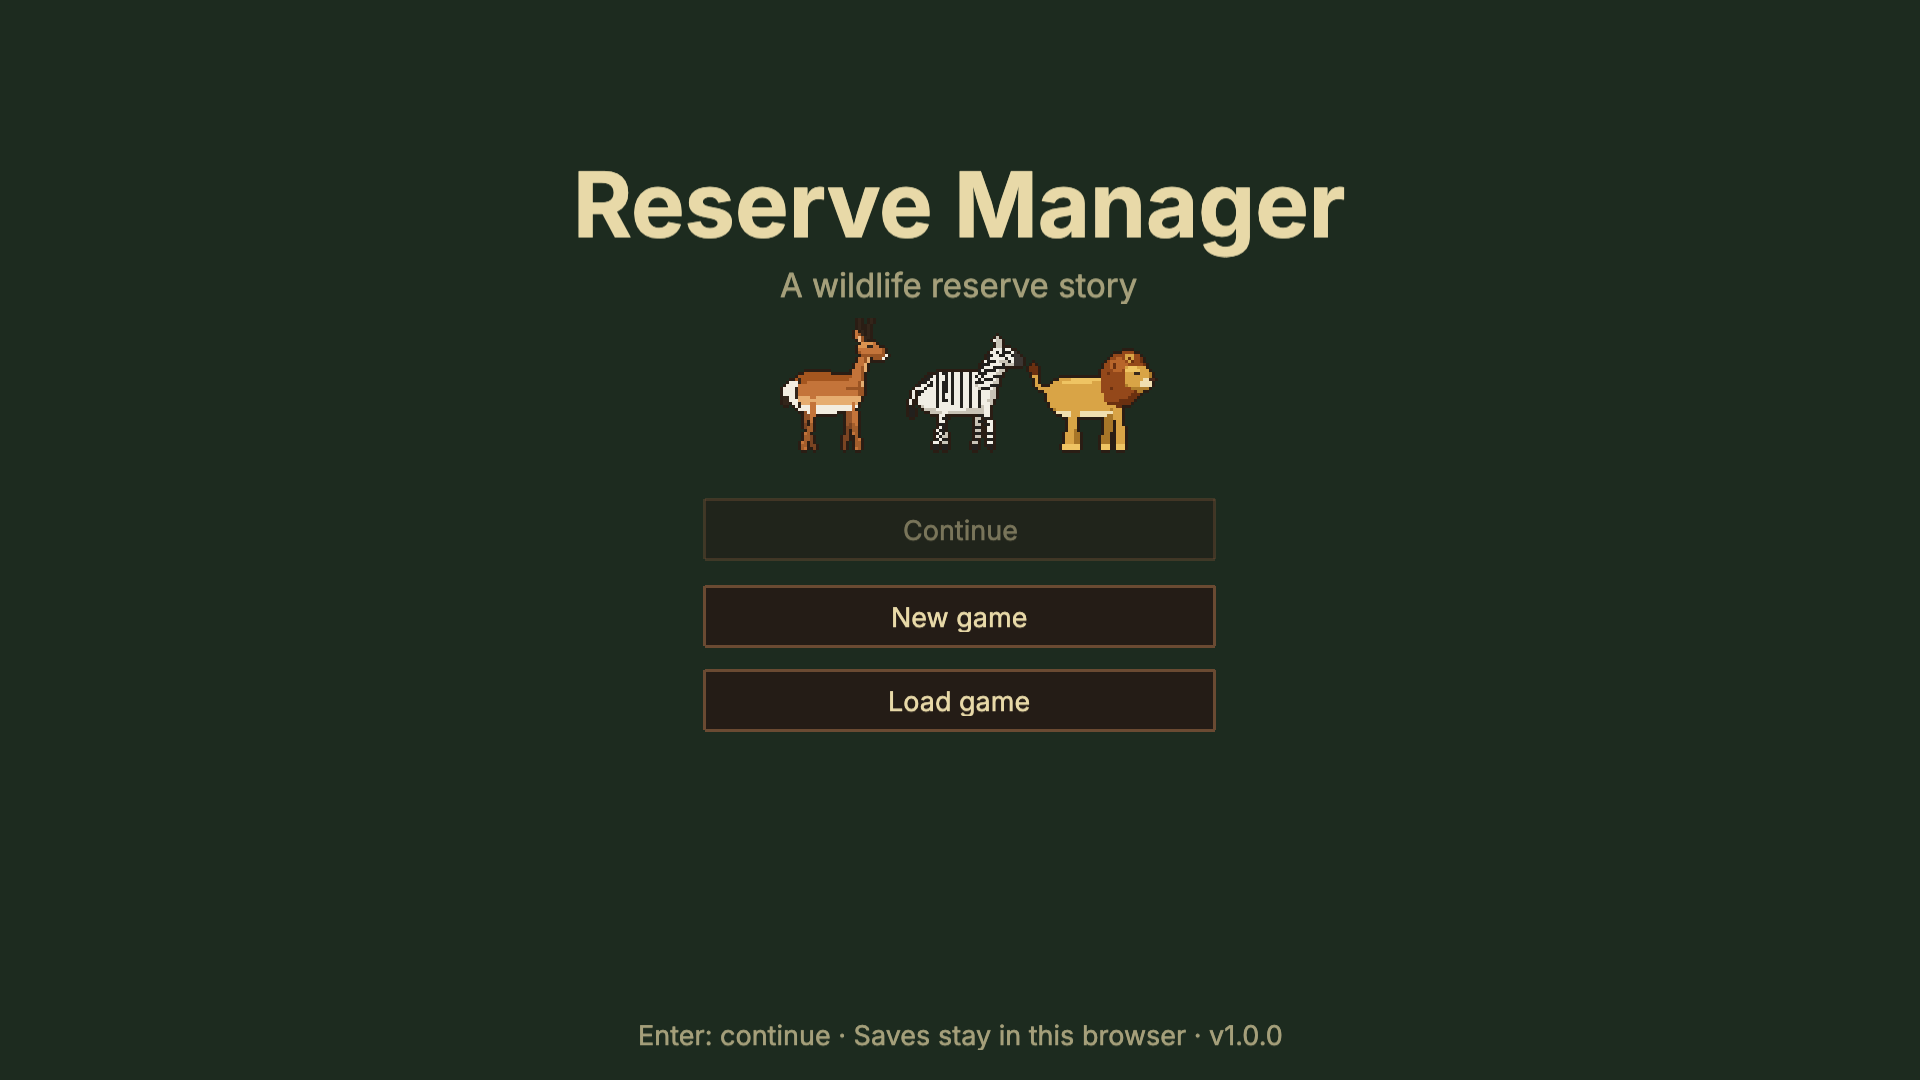
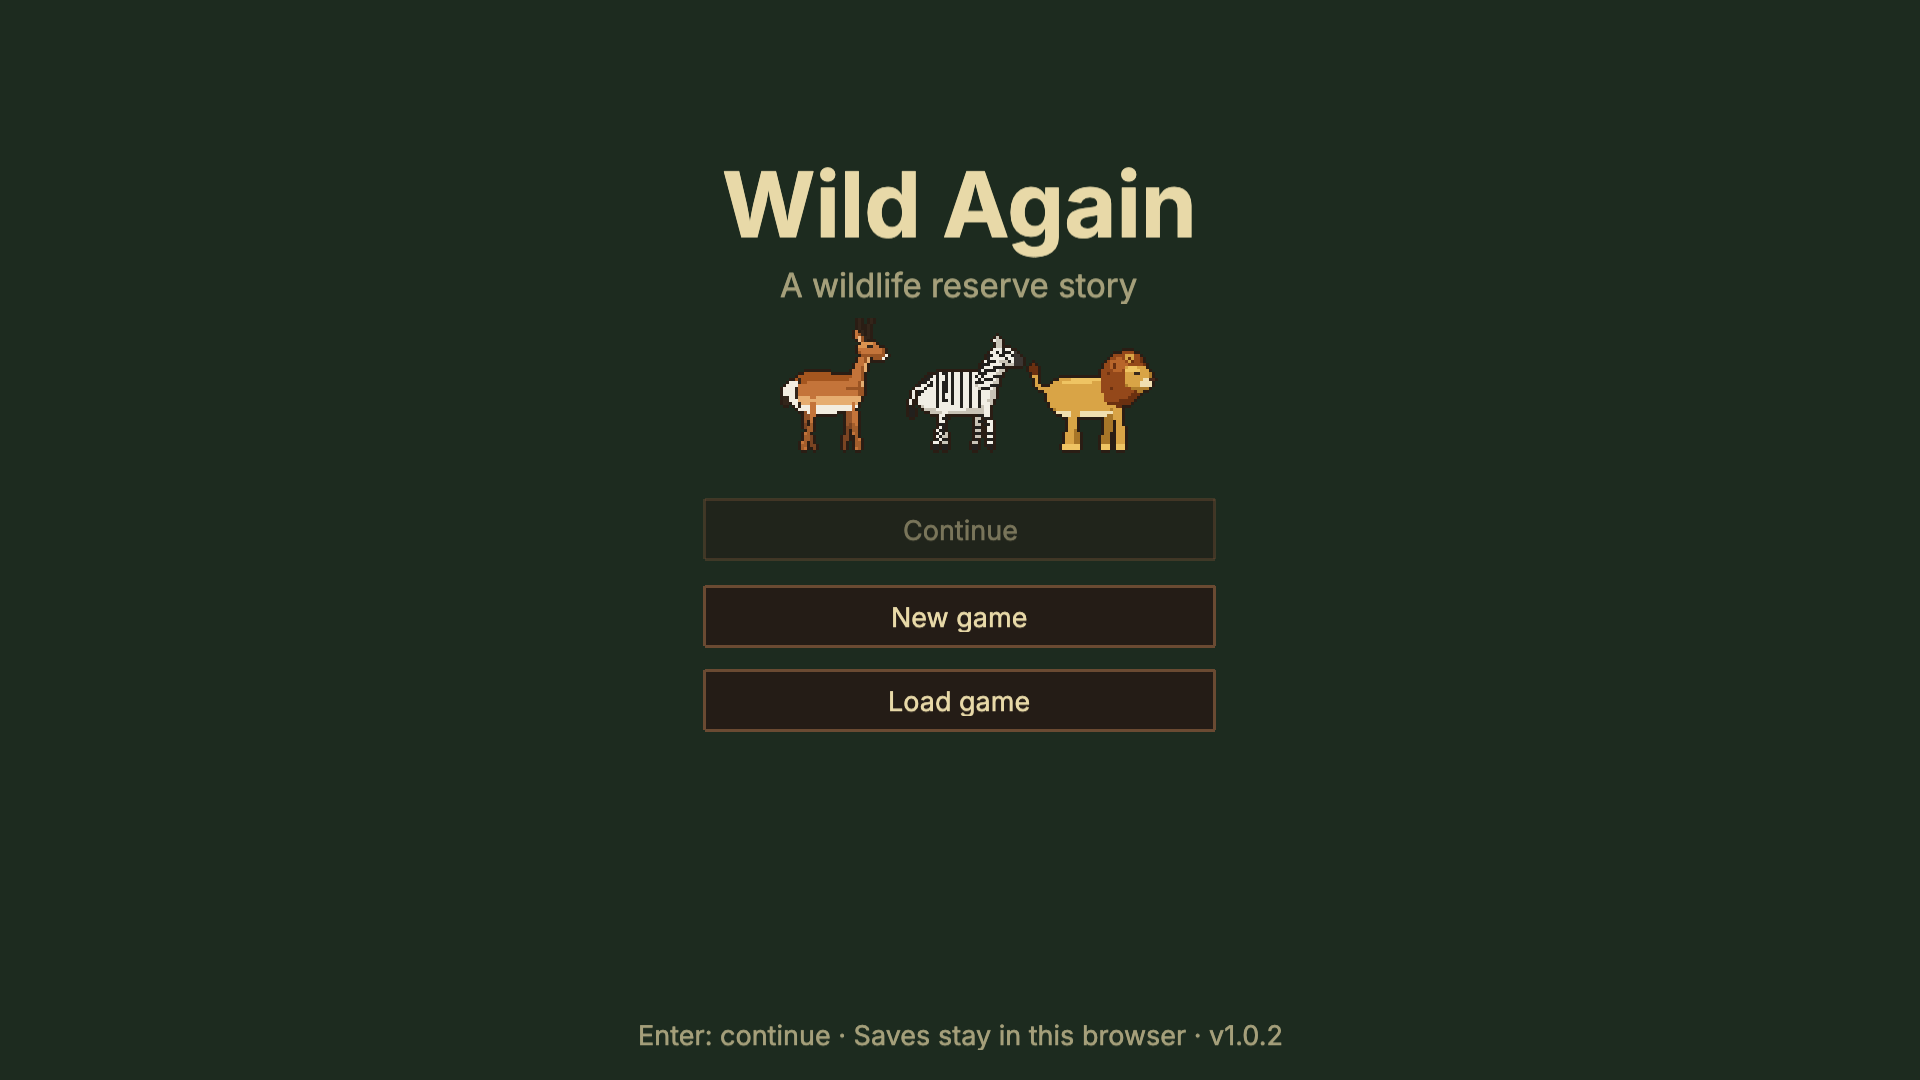
Rename the game Wild Again (v1.0.2)

Changed region(s): [[0.2812, 0.1528, 0.7188, 0.2444]]

diff --git a/tools/store-capture.ts b/tools/store-capture.ts
@@ -226,7 +226,7 @@ try {
       .shade { position: absolute; inset: 0; background: linear-gradient(to bottom, rgba(18,13,9,0.82), rgba(18,13,9,0) 42%, rgba(18,13,9,0) 70%, rgba(18,13,9,0.75)); }
       h1 { position: absolute; top: 34px; width: 100%; margin: 0; text-align: center; color: #e8d9a8; font-size: 52px; letter-spacing: 0.5px; text-shadow: 0 2px 0 #120d09; }
       p { position: absolute; bottom: 26px; width: 100%; margin: 0; text-align: center; color: #e8d9a8; font-size: 20px; text-shadow: 0 1px 0 #120d09; }
-    </style><div class="bg"></div><div class="shade"></div><h1>Reserve Manager</h1><p>Bring a forgotten wildlife reserve back to life</p>`);
+    </style><div class="bg"></div><div class="shade"></div><h1>Wild Again</h1><p>Bring a forgotten wildlife reserve back to life</p>`);
     await page.waitForTimeout(300);
     await page.screenshot({ path: join(OUT, 'cover-630x500.png') });
     console.log('wrote cover');

diff --git a/src/config/game.ts b/src/config/game.ts
@@ -1,6 +1,6 @@
 import pkg from '../../package.json';
 // Engine-level constants (spec §2, §4). Gameplay balance lives in balance.json, not here.
-export const GAME_TITLE = 'Reserve Manager';
+export const GAME_TITLE = 'Wild Again';
 
 /**
  * Minimum internal resolution. The canvas grows beyond this to fill the window

diff --git a/index.html b/index.html
@@ -3,7 +3,7 @@
   <head>
     <meta charset="UTF-8" />
     <meta name="viewport" content="width=device-width, initial-scale=1.0, user-scalable=no" />
-    <title>Reserve Manager</title>
+    <title>Wild Again</title>
     <style>
       html,
       body {

diff --git a/docs/DECISIONS.md b/docs/DECISIONS.md
@@ -277,6 +277,7 @@ Deviations from `docs/SPEC.md` and answers to its open questions. Newest last.
 | ---- | ---------------- | --------------------------------------------------------------------------------------------------------------------------------------------------------------------------------------------------------------------------------------------------------------------------------------------------------------------------------------------------------------------------------------------------------------------------------------------------------------------------------------------------------------------------------------------------------------------------------------------------------------------------------------------------------------------------------------------- | ---------------- |
 | D150 | Tips from Tendai | Small, non-blocking cards in the bottom-left corner (`data/tips.json`): the controls after the opening conversation, the first alert, each side menu the first time it opens, money going below zero, and, after 40 s without a click or key press in Chapters 1–2, a pointer to the first unfinished goal (with "Show me" for the gate, waterhole and pump site). One at a time, never during a conversation or while the journal is open; a tip about what you just opened goes first and the interrupted one comes back. Each shows once per browser (`reserve-manager.tips.v1`); Settings has "Tips from Tendai" on/off and "Show tips again". The story's own hint scenes are unchanged. | Roadmap Phase 15 |
 | D151 | Feedback link    | Feedback goes to itch.io comments (your choice). `FEEDBACK_URL` in `src/config/game.ts` holds the page address; while it's empty, the title-screen button and the Settings row stay hidden.                                                                                                                                                                                                                                                                                                                                                                                                                                                                                                   | You              |
+| D152 | Game title       | Renamed **Wild Again** (your choice, 2026-11-02; replaces D1 "Reserve Manager") everywhere players see it: title screen, page title, credits, store page, README. Internal names stay (`reserve-manager` package, repo and web address, `reserve-manager-save` format, localStorage keys) so saves keep working and links don't break.                                                                                                                                                                                                                                                                                                                                                        |
 
 ## Open questions
 

diff --git a/docs/PROGRESS.md b/docs/PROGRESS.md
@@ -514,6 +514,7 @@ and page text are ready in `release/` and `docs/store/`).
 - Tips from Tendai (D150) and the feedback link, waiting for the itch.io address (D151).
 - Playtest guide with questions for testers: `docs/PLAYTEST.md`.
 - v1.0.1.
+- Renamed the game **Wild Again** (D152), v1.0.2; cover and title screenshot redone.
 
 **Checks:** `build` ✅ · `test` ✅ (249) · `lint` ✅ · `validate-data` ✅ · `browser-check` ✅
 (9 of 9) · tips checked in a real browser: controls, alerts, Build, idle goal tip and

diff --git a/docs/store/ITCH_PAGE.md b/docs/store/ITCH_PAGE.md
@@ -4,7 +4,7 @@ A starting point for you to rewrite in your own words.
 
 ## Settings
 
-- **Title:** Reserve Manager
+- **Title:** Wild Again
 - **Kind of project:** HTML (upload `release/reserve-manager-web.zip`, tick "This file will
   be played in the browser")
 - **Viewport:** 1280 × 720, with "Fullscreen button" and "Automatically start on page load"

diff --git a/docs/PLAYTEST.md b/docs/PLAYTEST.md
@@ -1,6 +1,6 @@
 # Playtest guide
 
-For the 3–5 people trying Reserve Manager for the first time (Phase 15). Send them the
+For the 3–5 people trying Wild Again for the first time (Phase 15). Send them the
 link and the questions below; their answers decide what we build next.
 
 ## For you (before sending)

diff --git a/CHANGELOG.md b/CHANGELOG.md
@@ -1,5 +1,10 @@
 # Changelog
 
+## 1.0.2 — 2026-11-02
+
+- The game is now called **Wild Again** (it was Reserve Manager). Saves from earlier
+  versions still load.
+
 ## 1.0.1 — 2026-11-01
 
 - **Tips from Tendai:** short pointers the first time you open a menu or get an alert, and a

diff --git a/README.md b/README.md
@@ -1,4 +1,4 @@
-# Reserve Manager
+# Wild Again
 
 A cosy pixel-art wildlife reserve game. You arrive at a neglected reserve and bring it back
 to life: mend fences, restore water, keep the grass healthy and the animals thriving, and

diff --git a/CLAUDE.md b/CLAUDE.md
@@ -1,4 +1,4 @@
-# Reserve Manager
+# Wild Again
 
 Read `docs/SPEC.md` first and follow its Section 0 rules for all work.
 Check `docs/PROGRESS.md` for the current phase and `docs/DECISIONS.md` for agreed deviations.
